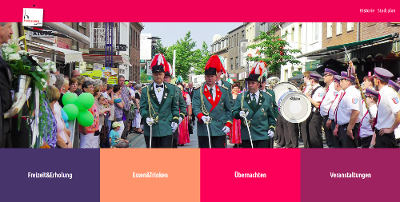
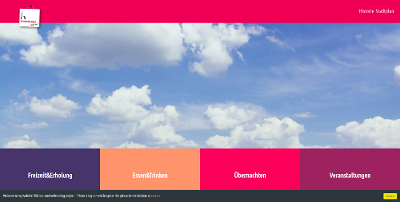
projects added

diff --git a/src/components/Projects/Projects.js b/src/components/Projects/Projects.js
@@ -3,6 +3,9 @@ import img from "../../assets/Projects/heinsberg.png";
 import img1 from "../../assets/Projects/weatherapp.png";
 import img2 from "../../assets/Projects/toyshop.png";
 import img3 from "../../assets/Projects/readinglist1.png";
+import img4 from "../../assets/Projects/foreSight.png";
+import img5 from "../../assets/Projects/devsymbols.png";
+
 import ProjectLeft from "./ProjectLeft";
 import ProjectRight from "./ProjectRight";
 import "./projects.style.scss";
@@ -17,7 +20,7 @@ function Projects() {
           "An E-commerce website built with React, includes email and Google signIn/signOut and payment features.",
         technologyTitle: "Technologies Used",
         technologyDescription:
-          "HTML, CSS, React, Redux, Firebase, React-Stripe, Styled-Components",
+          "HTML, CSS, JS, React, Redux, Firebase, React-Stripe, Styled-Components",
         pageURL: "https://toyshop.netlify.com/",
         codeURL: "https://github.com/BrManga/Toy-Shop"
       },
@@ -25,14 +28,31 @@ function Projects() {
         img: img,
         pageTitle: "Heinsberg",
         pageDescription:
-          "A guide for visitors of Heinsberg to an easier decision what to do.",
+          "A guide for Heinsberg visitors showing what they can do in the city.",
         technologyTitle: "Technologies Used",
-        technologyDescription: "HTML, SCSS, React, Mapbox-gl",
+        technologyDescription: "HTML, SCSS, JS, React, Mapbox-gl",
         pageURL: "https://heinsberg.netlify.com/",
         codeURL: "https://github.com/BrManga/Stadt_Heinsberg"
-      }
-    ],
-    [
+      },
+      {
+        img: img4,
+        pageTitle: "foreSight Blog",
+        pageDescription: "A blog page designed to share articles with readers.",
+        technologyTitle: "Technologies Used",
+        technologyDescription: "HTML, SCSS, JS, React, Redux, React-Bootstrap",
+        pageURL: "https://foresight.netlify.com/",
+        codeURL: "https://github.com/BrManga/myBlog"
+      },
+      {
+        img: img5,
+        pageTitle: "Was ist das?",
+        pageDescription:
+          "It is designed to show the programmers the translation of symbols used in programming to other languages. You can see page in different languages.",
+        technologyTitle: "Technologies Used",
+        technologyDescription: "HTML, SCSS, JS, React, React-Bootstrap",
+        pageURL: "https://devsymbols.netlify.com/",
+        codeURL: "https://github.com/BrManga/devSymbol"
+      },
       {
         img: img1,
         pageTitle: "Weather App",
@@ -50,7 +70,7 @@ function Projects() {
           "A reading list keeps your books information in your computer and waits for you to read them :)",
         technologyTitle: "Technologies Used",
         technologyDescription:
-          "HTML, CSS, React, Context, Hooks (useReducer, useEffect)",
+          "HTML, CSS, JS, React, Context, Hooks (useReducer, useEffect)",
         pageURL: "https://react-reading-list.netlify.com/",
         codeURL: "https://github.com/BrManga/Reading_list"
       }
@@ -58,8 +78,12 @@ function Projects() {
   ];
   const projects = state.map(project => (
     <>
-      <ProjectLeft key={1} {...project[0]} />{" "}
+      <ProjectLeft key={1} {...project[0]} />
       <ProjectRight key={2} {...project[1]} />
+      <ProjectLeft key={3} {...project[2]} />
+      <ProjectRight key={4} {...project[3]} />
+      <ProjectLeft key={5} {...project[4]} />
+      <ProjectRight key={6} {...project[5]} />
     </>
   ));
   return (

diff --git a/src/components/Contact/contact.styles.scss b/src/components/Contact/contact.styles.scss
@@ -1,10 +1,4 @@
 .contactAll {
-  justify-content: center;
-  background-image: url(../../assets/contact_deneme.png);
-  background-position: center;
-  background-size: cover;
-  background-repeat: no-repeat;
-  width: 100%;
   animation: fadein 2s;
   animation-fill-mode: forwards;
 }
